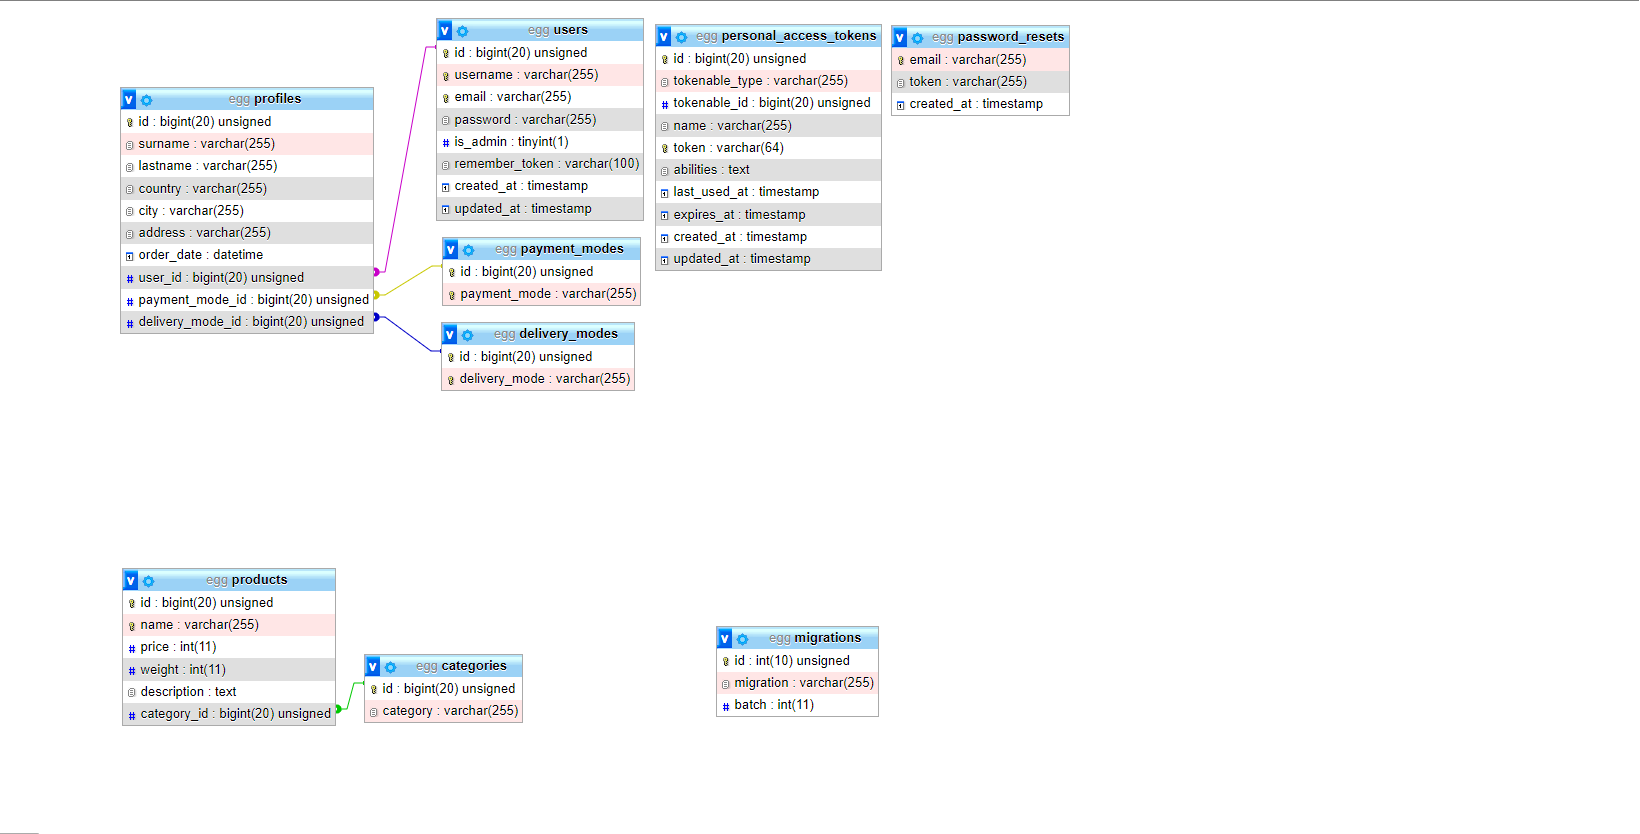
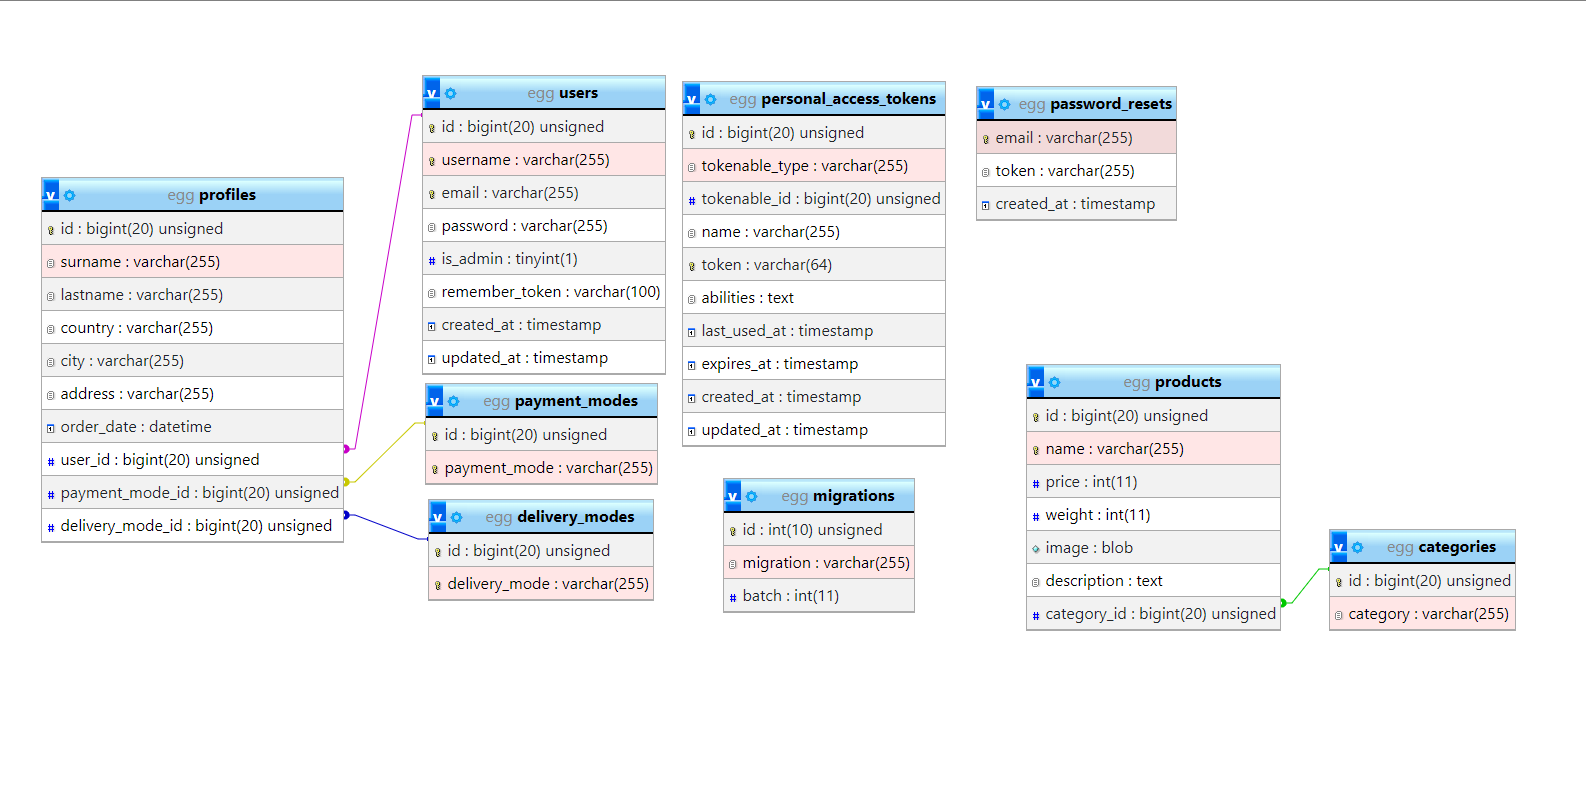
Verzió 0.035

diff --git a/api/app/Http/Controllers/ProductController.php b/api/app/Http/Controllers/ProductController.php
@@ -39,7 +39,7 @@ class ProductController extends BaseController
             "price.required" => "A termék árának megadása kötelező!",
             "weight.required" => "A termék súlyának megadása kötelező!",
             "description.required" => "A termék leirásának megadása kötelező!",
-            "category.required" => "A termék kategóriájának megadása kötelező!",
+            "category.required" => "A termék kategóriájának megadása kötelező!"
         ]);
  
         if ($validator->fails())
@@ -50,6 +50,32 @@ class ProductController extends BaseController
         $product = Product::create($input);
 
         return $this->sendResponse(new ProductResource($product), "Termék létrehozva!");
+
+    }
+
+    public function AddImageToProduct(Request $request, $image)
+    {
+        $input = $request->all();
+
+        $validator = Validator::make($input,
+        [
+            "image" => "required"
+        ],
+        [
+            "image.required" => "A kép megadása kötelező!"
+        ]);
+
+        if ($validator->fails())
+        {
+            return $this->sendError($validator->errors());
+        }
+
+        $product = Product::find($image);
+        $product->update($request->all());
+        $product->save();
+
+
+        return $this->sendResponse(new productResource($product), "A kép frissítve!");
 
     }
 
@@ -70,20 +96,23 @@ class ProductController extends BaseController
     {
         $input = $request->all();
 
+        if(is_null($input))
+        {
+            return $this->sendError("A termék nem létezik!");
+        }
+        
         $validator = Validator::make($input,
         [
             "name" => "required",
             "price" => "required",
             "weight" => "required",
             "description" => "required",
-            "category" => "required"
         ],
         [
             "name.required" => "A termék nevének megadása kötelező!",
             "price.required" => "A termék árának megadása kötelező!",
             "weight.required" => "A termék súlyának megadása kötelező!",
             "description.required" => "A termék leirásának megadása kötelező!",
-            "category.required" => "A termék kategóriájának megadása kötelező!",
         ]);
 
         if ($validator->fails())
@@ -91,10 +120,9 @@ class ProductController extends BaseController
             return $this->sendError($validator->errors());
         }
 
-        $product = product::find($id);
+        $product = Product::find($id);
         $product->update($request->all());
         $product->save();
-
 
         return $this->sendResponse(new productResource($product), "A termék frissítve!"); 
     }
@@ -110,7 +138,7 @@ class ProductController extends BaseController
             $product->id = $product->id -1;
             $product->save();
         }
-        return $this->sendResponse([], "Product Deleted!");
+        return $this->sendResponse([], "Termék törölve!");
     }
 
 }

diff --git a/api/routes/api.php b/api/routes/api.php
@@ -23,7 +23,10 @@ Route::group(["middleware" => ["auth:sanctum"]], function()
 {
     Route::put("/updateuser/{id}", [UserController::class,"UpdateUser"]);
     Route::delete("/deleteuser/{id}", [UserController::class,"DeleteUser"]);
+    Route::delete("/deleteprofile/{id}", [ProfileController::class,"DeleteProfile"]);
+    Route::post("/submit-product", [ProductController::class,"NewProduct"]);
     Route::put("/updateproduct/{id}", [ProductController::class,"UpdateProduct"]);
+    Route::post ("/image/{id}", [ProductController::class,"AddImageToProduct"]);
     Route::delete("/deleteproduct/{id}", [ProductController::class,"DeleteProduct"]);
 
 
@@ -47,7 +50,7 @@ Route::get("/userbyid/{id}", [UserController::class,"ShowUserById"]);
 ------------------------------------------------------------------------ */
 
 
-Route::post("/submit-product", [ProductController::class,"NewProduct"]);
+
 Route::get("/productlist", [ProductController::class,"ProductList"]);
 Route::get("ProductById/{id}", [ProductController::class, "ShowProductById"]);
 

diff --git a/api/app/Http/Controllers/ProfileController.php b/api/app/Http/Controllers/ProfileController.php
@@ -19,7 +19,7 @@ class ProfileController extends BaseController
     public function ListProfiles( Request $request)
     {
 
-        $profiles = Profile::with(["user", "order_date", "payment_mode", "delivery_mode"])->get();
+        $profiles = Profile::with(["user", "payment_mode", "delivery_mode"])->get();
         return $this->sendResponse(ProfileResource::collection($profiles), "Profil Adatok kiirva!");
 
     }   
@@ -64,7 +64,14 @@ class ProfileController extends BaseController
 
         $profile->save();
 
-        return $this->sendResponse(new UserResource($user), "Profil sikeresen frissitve!");
+        return $this->sendResponse(new ProfileResource($profile), "Profil sikeresen frissitve!");
+    }
+
+    public function DeleteProfile($id)
+    {
+        Profile::destroy($id);
+
+        return $this->sendResponse([], "Profil törlése sikeresen megtörtént.");
     }
     
 }

diff --git a/api/app/Http/Resources/Product.php b/api/app/Http/Resources/Product.php
@@ -9,7 +9,7 @@ class Product extends JsonResource
     /**
      * Transform the resource into an array.
      *
-     * @param  \Illuminate\Http\R   equest  $request
+     * @param  \Illuminate\Http\Request  $request
      * @return array|\Illuminate\Contracts\Support\Arrayable|\JsonSerializable
      */
     public function toArray($request)
@@ -21,6 +21,7 @@ class Product extends JsonResource
             "price" => $this->price,
             "weight" => $this->weight,
             "description" => $this->description,
+            "image" => $this->image,
             "category_id" => $this->category->category
         ];
     }

diff --git a/api/database/migrations/2023_01_12_090939_create_products_table.php b/api/database/migrations/2023_01_12_090939_create_products_table.php
@@ -19,6 +19,7 @@ return new class extends Migration
             $table->string('name')->unique();
             $table->integer('price');
             $table->integer('weight');
+            $table->binary('image')->nullable();
             $table->text('description');
             $table->unsignedBigInteger('category_id');
             $table->foreign('category_id')->references('id')->on('categories');

diff --git a/api/Version.md b/api/Version.md
@@ -176,3 +176,17 @@ Verzió kiadva: 2023-01-31
 - Felhasználó tábla új admin mezővel feltöltve, mellé a megfelelő javitások megcsinálva
 - Adatbázis terv frissitve
 - Insomnia új verzió
+
+ <br></br>
+
+# <p align = "center">Verzió 0.035:</p>
+Verzió kiadva: 2023-02-02
+
+- Profil törlésének metódusa megírva (Hogy törölni lehessen a Usert)
+- Rossz forrásból volt hívva a profil módosítás, ezért az is át lett írva
+- Image funkció működik a terméknél, el lehet tárolni a termékről a képet adatbázisba
+- Adatbázis terv képének módosítása a kép hozzáadása miatt
+- Profil listázásánál ki lett javítva egy hiba ami által nem jelent meg a rendelési idő ha annak értéke még nem volt deklarálva
+- DB könyvtár törölve, a teszt adatok már migráción keresztül vannak beépítve az adatbázisba
+- Product Resource-ban valamiért a request el volt választva amikor le lett generálva(Január 20), javítva lett
+- Insomnia új verzió
